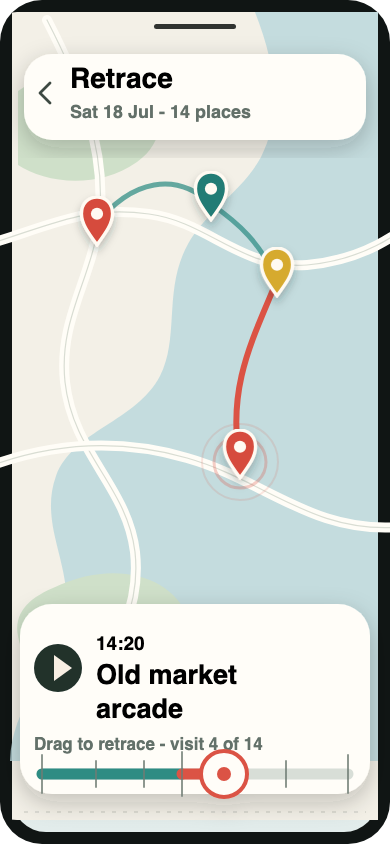
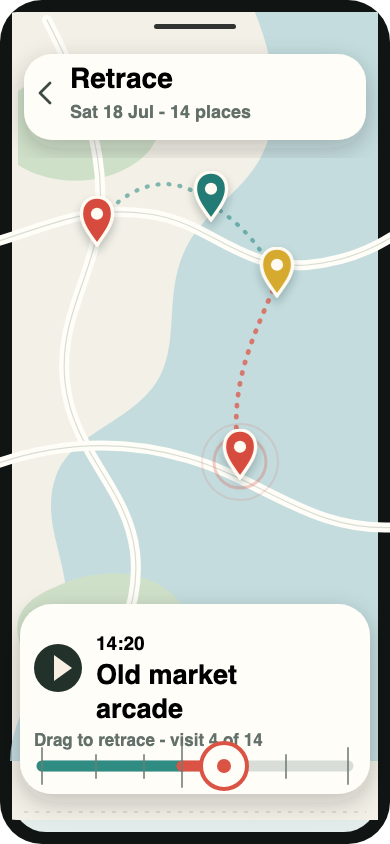
Refine retrace mockup validation details

diff --git a/docs/design/retrace/README.md b/docs/design/retrace/README.md
@@ -7,8 +7,8 @@ Rob's accepted direction:
 
 - Retrace opens as a map view, not a hidden list state.
 - Visited places remain individual pins.
-- Scrubbing time makes connection arcs glide across the map.
-- Pins pop into colour as the scrubber reaches each visit.
+- Scrubbing time makes dashed connection arcs glide across the map.
+- Pins appear with a pulse as the scrubber reaches each visit.
 - The slider must read as a real time slider, with Google Photos-style temporal
   affordance rather than a generic progress bar.
 - The entry point must be obvious from the map.
@@ -28,9 +28,11 @@ Validation notes:
   mapless Tracks drawer should not survive as a separate replay surface.
 - Retrace does not show unreached or hidden places as faded tappable pins, and
   it does not expose hidden-place counts.
-- The connection line is scaffolding: it stays behind the places, avoids system
-  blue, and never dominates coloured pins.
+- The dashed connection line is scaffolding: it stays behind the places, avoids
+  the default navigation accent, and never dominates coloured pins.
 - Same-day reordering is represented as a continuous track.
+- The AXXXL render deliberately drops endpoint time labels from the slider row
+  so the event control remains reachable and unclipped at the largest text size.
 - Each phone-frame source includes a subtle fold/safe-area marker so reviewers
   can judge what remains visible without scrolling.
 
